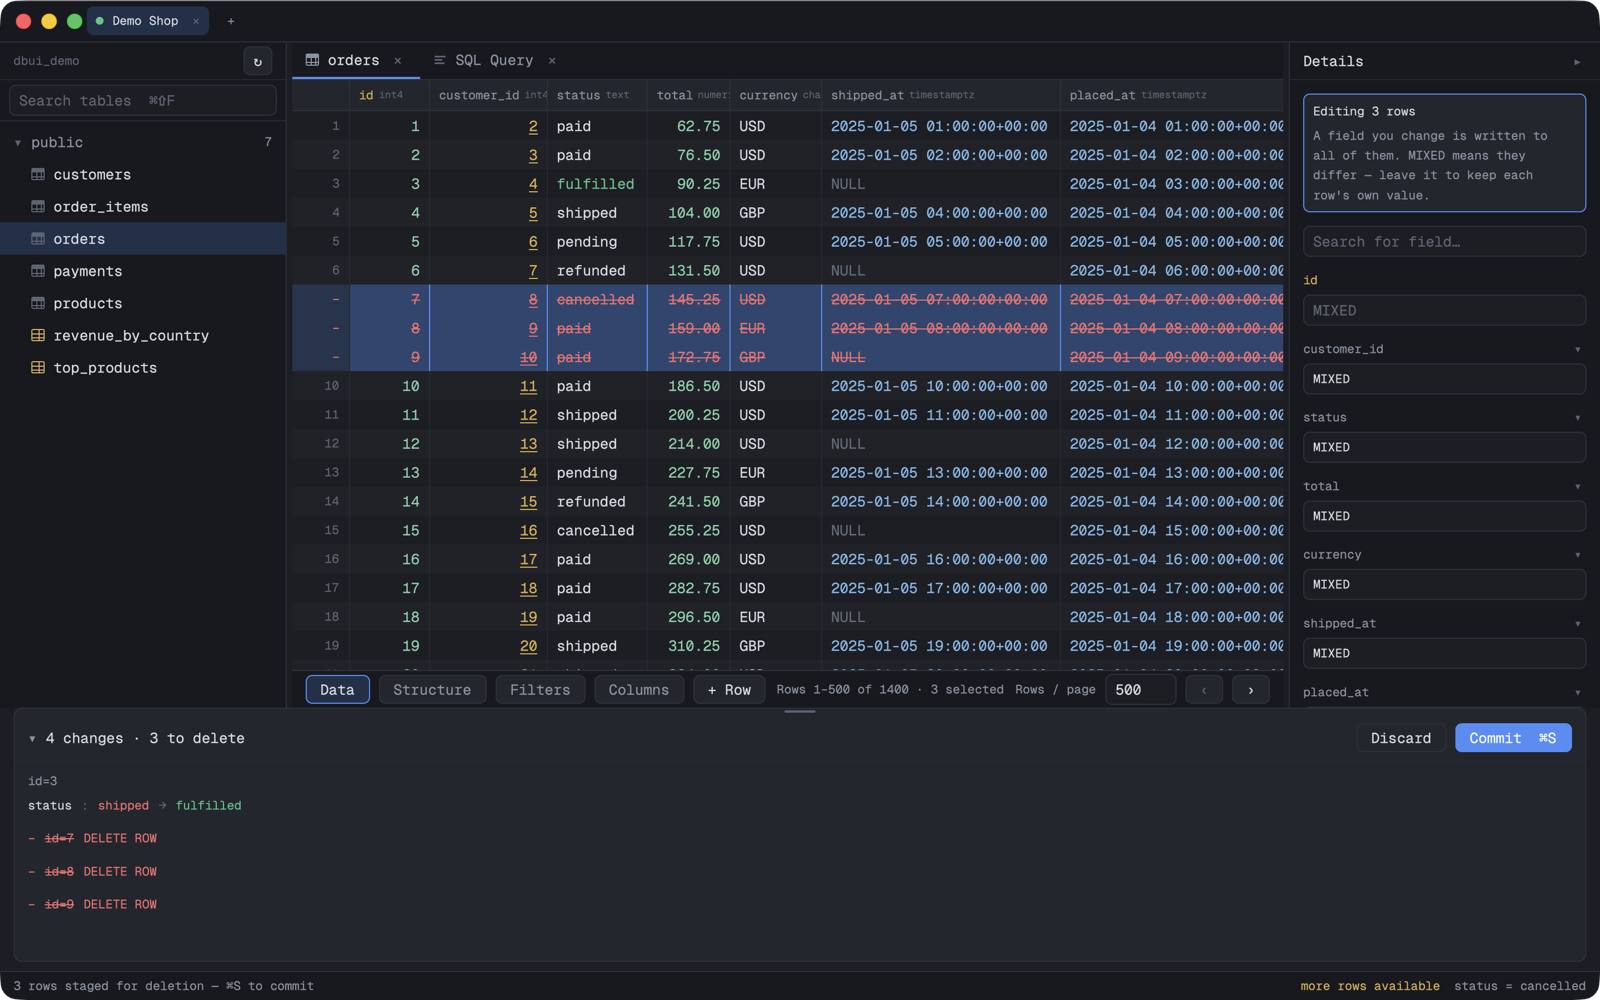
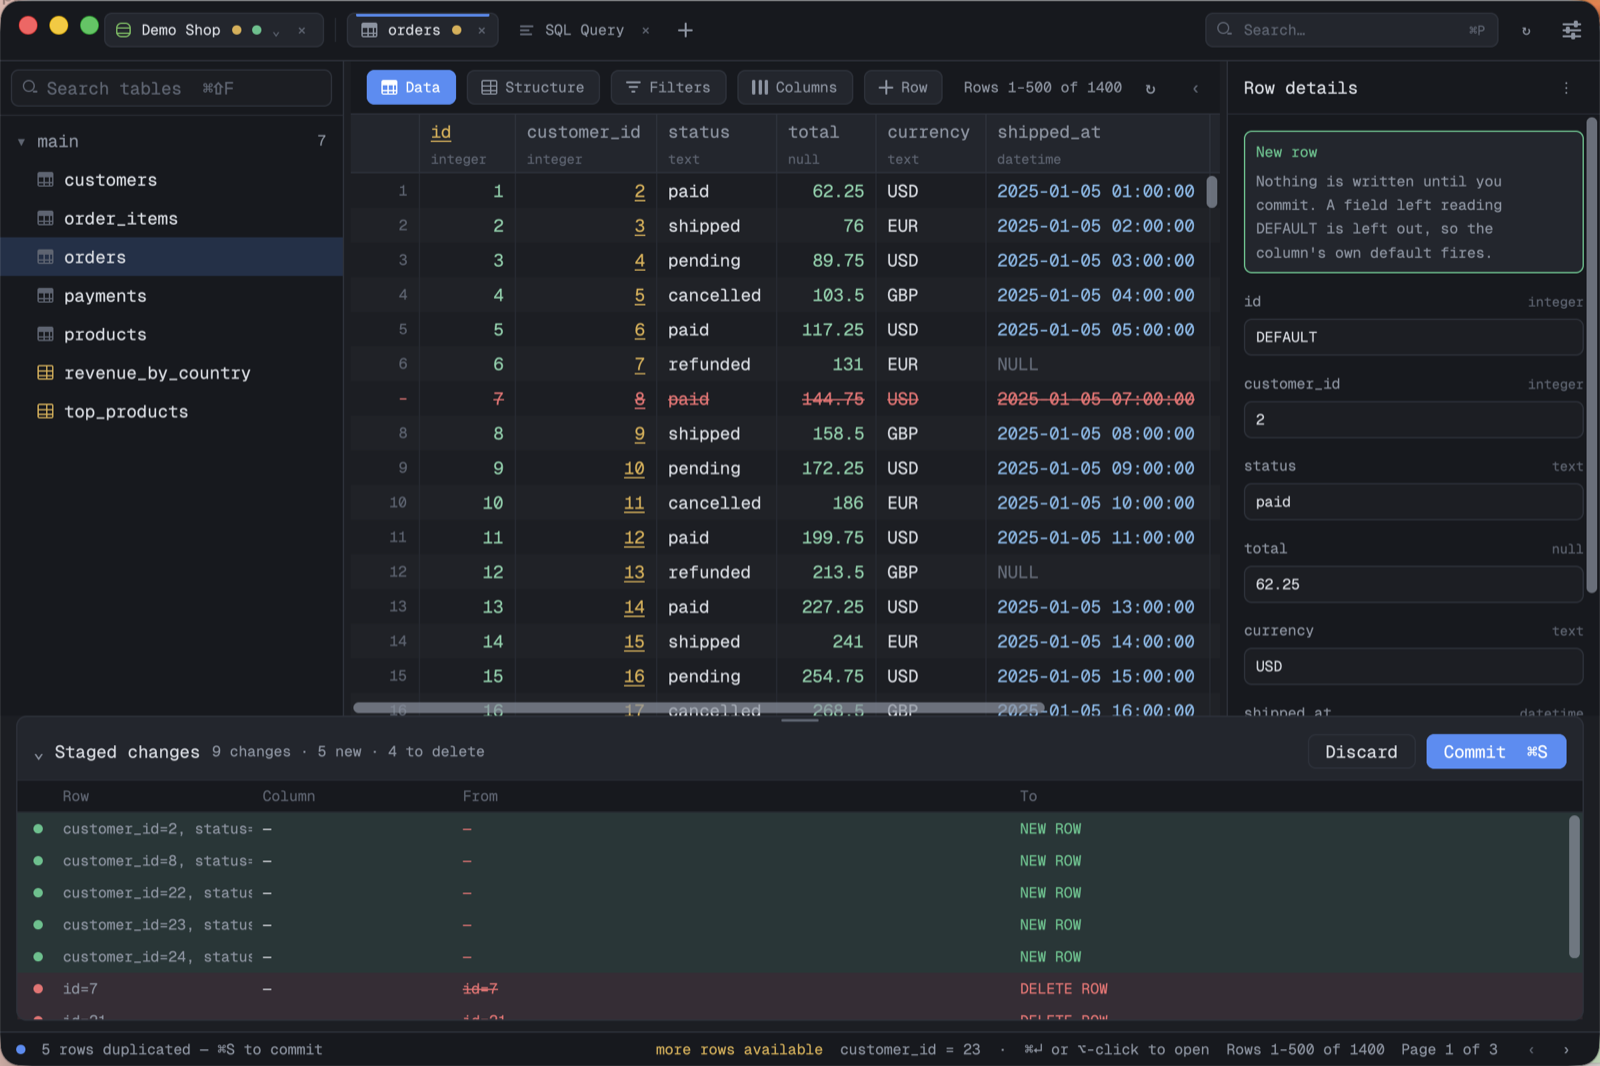
Retake the screenshots against the chrome that now exists
All three showed the old layout -- tab strip under the titlebar, toolbar
along the bottom, types crushed onto the header's name line, and the
change list as a run of free-form diff lines. The README described a
window nobody would find after installing.

The two alt texts that named things no longer on screen are updated with
them. The table one still reads true, so it is left alone.

diff --git a/README.md b/README.md
@@ -20,13 +20,13 @@ transaction; `⌘Z` throws it away. With several rows selected, the panel on the
 edits all of them at once — `MIXED` marks a column they disagree on, and a field left
 reading `MIXED` is written to nobody.
 
-![Three rows struck through and staged for deletion beside an edited cell, with the change list open showing "status: shipped to fulfilled" and three DELETE ROW entries](docs/screenshots/changes.png)
+![Rows struck through and staged for deletion in the grid, with the staged-changes table open underneath listing each one by row, column, old value and new](docs/screenshots/changes.png)
 
 **SQL, with the catalog behind it.** `⌘↵` runs the statement under the caret, `⌘⇧↵`
 runs every statement in the buffer, and `⌃Space` completes against the schemas, tables
 and columns the connection actually has. Results land in the same typed grid, timed.
 
-![The SQL editor with a highlighted GROUP BY query above its result grid, reporting 10 rows in 5 ms](docs/screenshots/query.png)
+![The SQL editor with a highlighted GROUP BY query above its result grid, reporting the rows it returned and how long it took](docs/screenshots/query.png)
 
 ## Install
 
